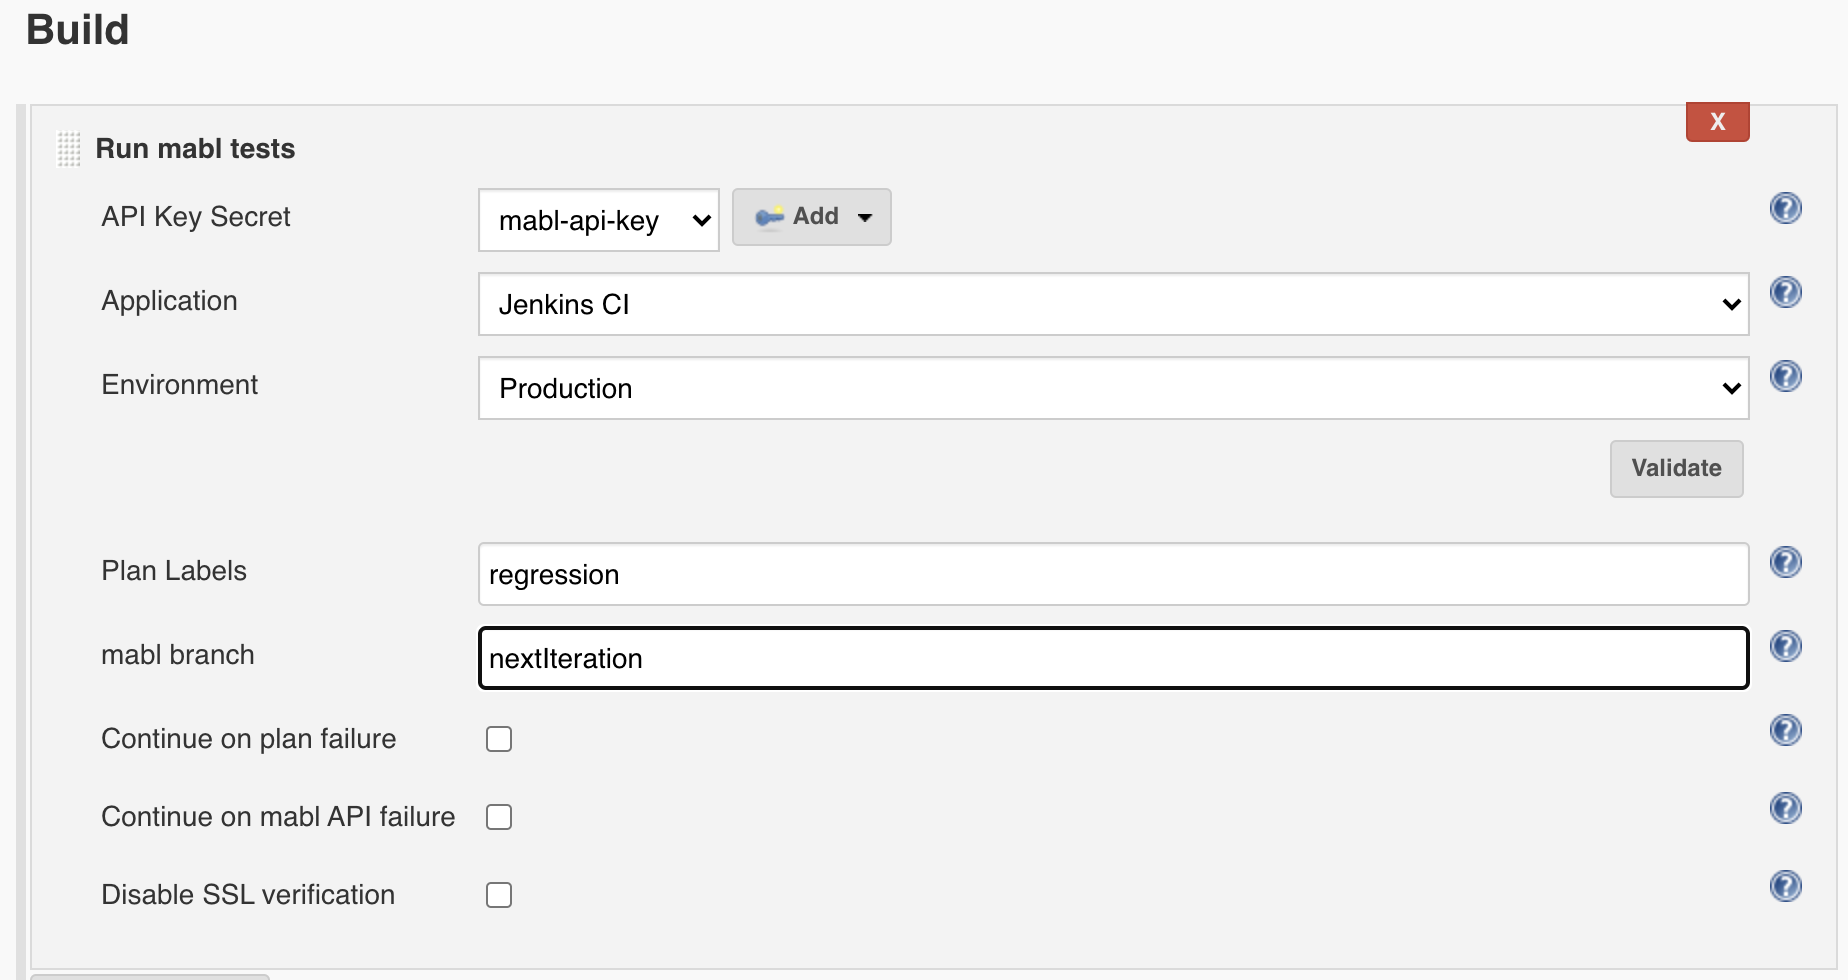
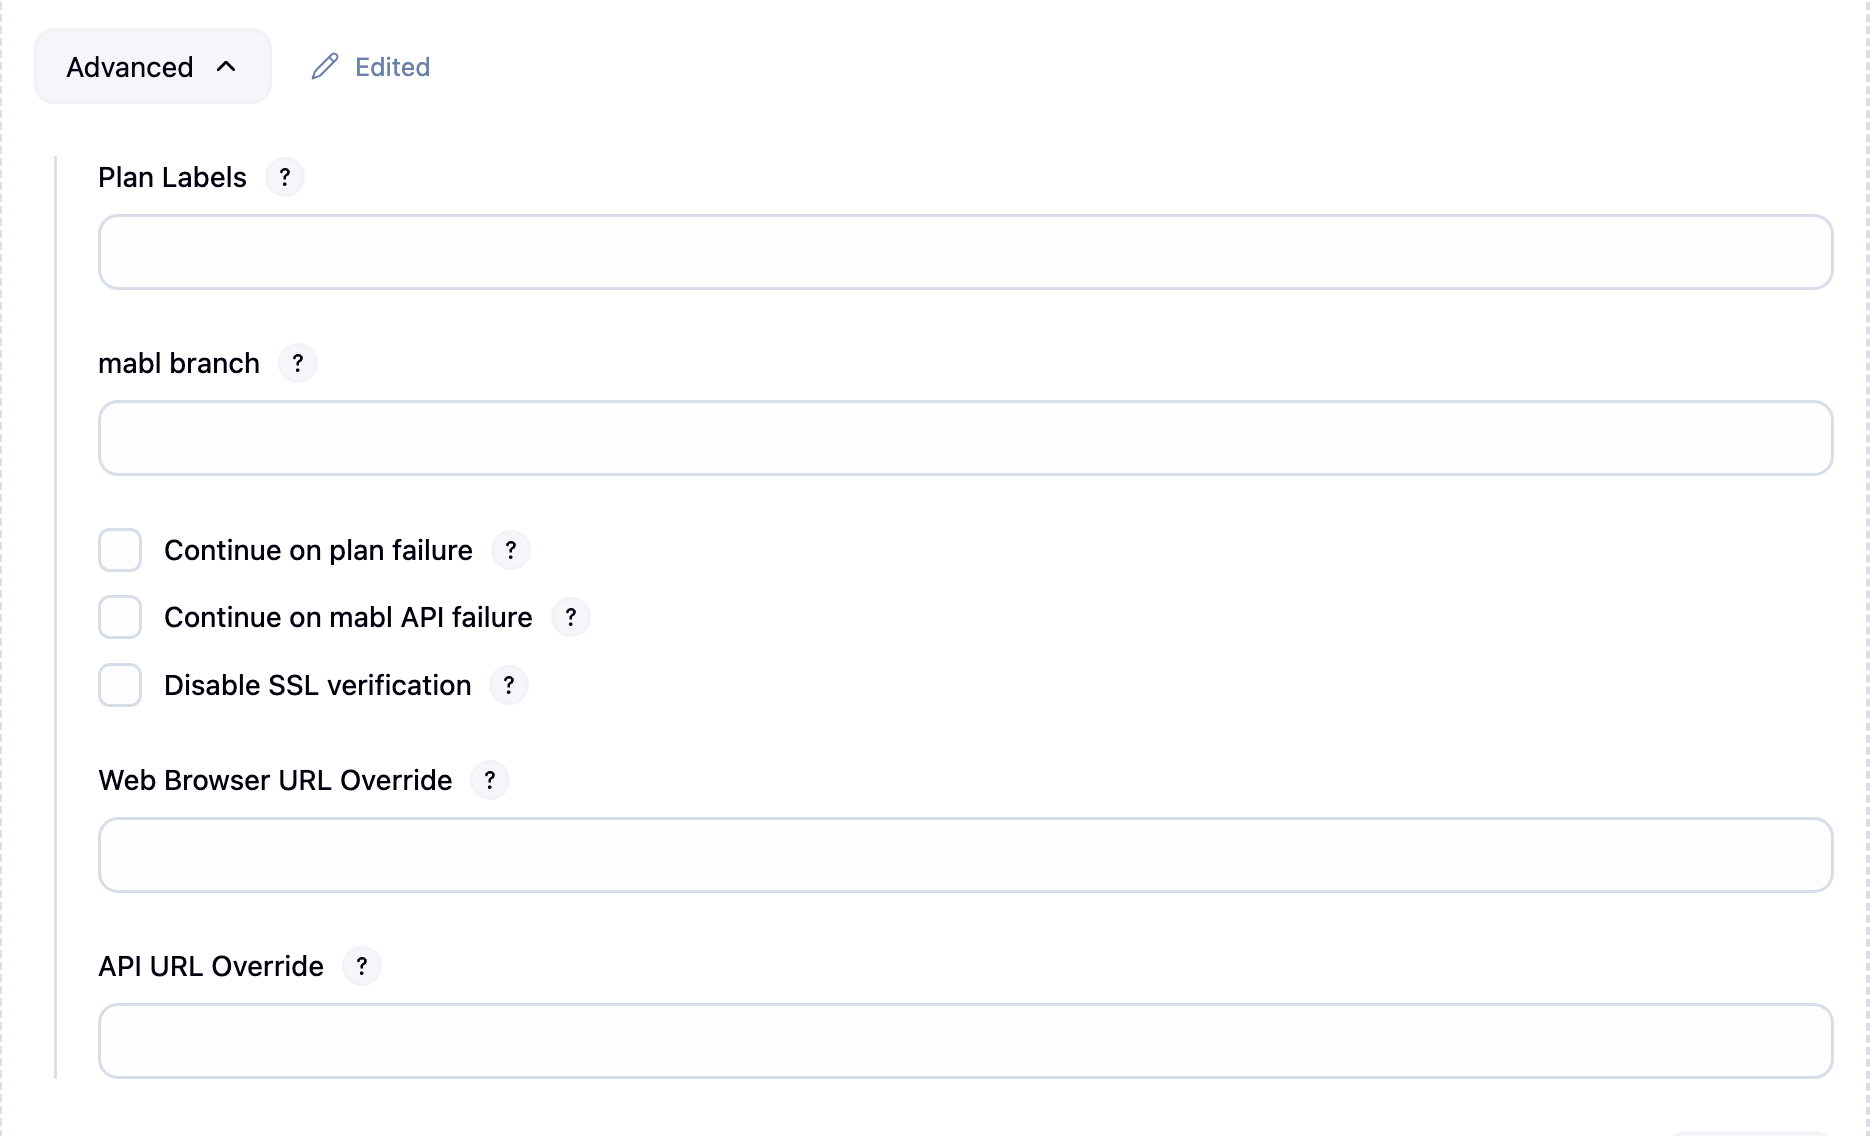
Changes in README

diff --git a/src/main/resources/com/mabl/integration/jenkins/MablStepBuilder/help-webUrlOverride.html b/src/main/resources/com/mabl/integration/jenkins/MablStepBuilder/help-webUrlOverride.html
@@ -1,3 +1,3 @@
 <div>
-  Override the default web URL that will be used during mabl browser test execution. This allows you to direct tests to a specific environment or endpoint without changing the mabl configuration.
+  Override the default web URL that will be used during mabl browser test execution. This directs tests to a specific environment or endpoint without changing the mabl cloud configurations.
 </div>

diff --git a/src/main/resources/com/mabl/integration/jenkins/MablStepBuilder/help-apiUrlOverride.html b/src/main/resources/com/mabl/integration/jenkins/MablStepBuilder/help-apiUrlOverride.html
@@ -1,3 +1,3 @@
 <div>
-    Override the default API URL that will be used during mabl test execution. This allows you to direct API tests to a specific endpoint or service without changing the mabl configuration.
+    Override the default API URL that will be used during mabl test execution. This directs API tests to a specific endpoint or service without changing the mabl cloud configuration.
 </div>

diff --git a/src/main/java/com/mabl/integration/jenkins/MablStepDeploymentRunner.java b/src/main/java/com/mabl/integration/jenkins/MablStepDeploymentRunner.java
@@ -219,11 +219,11 @@ public class MablStepDeploymentRunner implements Callable<Boolean> {
             CreateDeploymentProperties.PlanOverride overrides = new CreateDeploymentProperties.PlanOverride();
             if(hasWebUrl){
                 overrides.setWeb_url(webUrlOverride.trim());
-                outputStream.println("web_url: [" +webUrlOverride+ "]");
+                outputStream.println("webURL: [" +webUrlOverride+ "]");
             }
             if(hasApiUrl){
                 overrides.setApi_url(apiUrlOverride.trim());
-                outputStream.println("api_url: [" +apiUrlOverride+ "]");
+                outputStream.println("apiURL: [" +apiUrlOverride+ "]");
             }
 
             properties.setPlan_overrides(overrides);

diff --git a/README.md b/README.md
@@ -69,7 +69,8 @@ The *Advanced...* button opens up additional options:
 -   Specify the test branch of your mabl tests
 -   Continue execution if your plan/tests fail
 -   Continue execution if there is an unexpected error in the mabl API
--   Disable SSL verification
+-   Disable SSL verification 
+-   Override the web URL and/or API URL used for the tests in the deployment.
 
 ![](img/config-advanced.png)
 
@@ -91,6 +92,8 @@ pipeline step for mabl. This can be written by hand or created via the
 -   labels: if specified, only plans with (any of the) labels will be triggered.
     If multiple labels are provided, separate them with commas.
 -   mablBranch: if specified, then tests from the specified branch will be executed.
+-   webUrlOverride: if specified, overrides the default mabl web application URL.
+-   apiUrlOverride: if specified, overrides the default mabl API URL.
     You may also want to use a Jenkins
     [environment variable](https://www.jenkins.io/doc/pipeline/tour/environment/) to specify the branch.   
 
